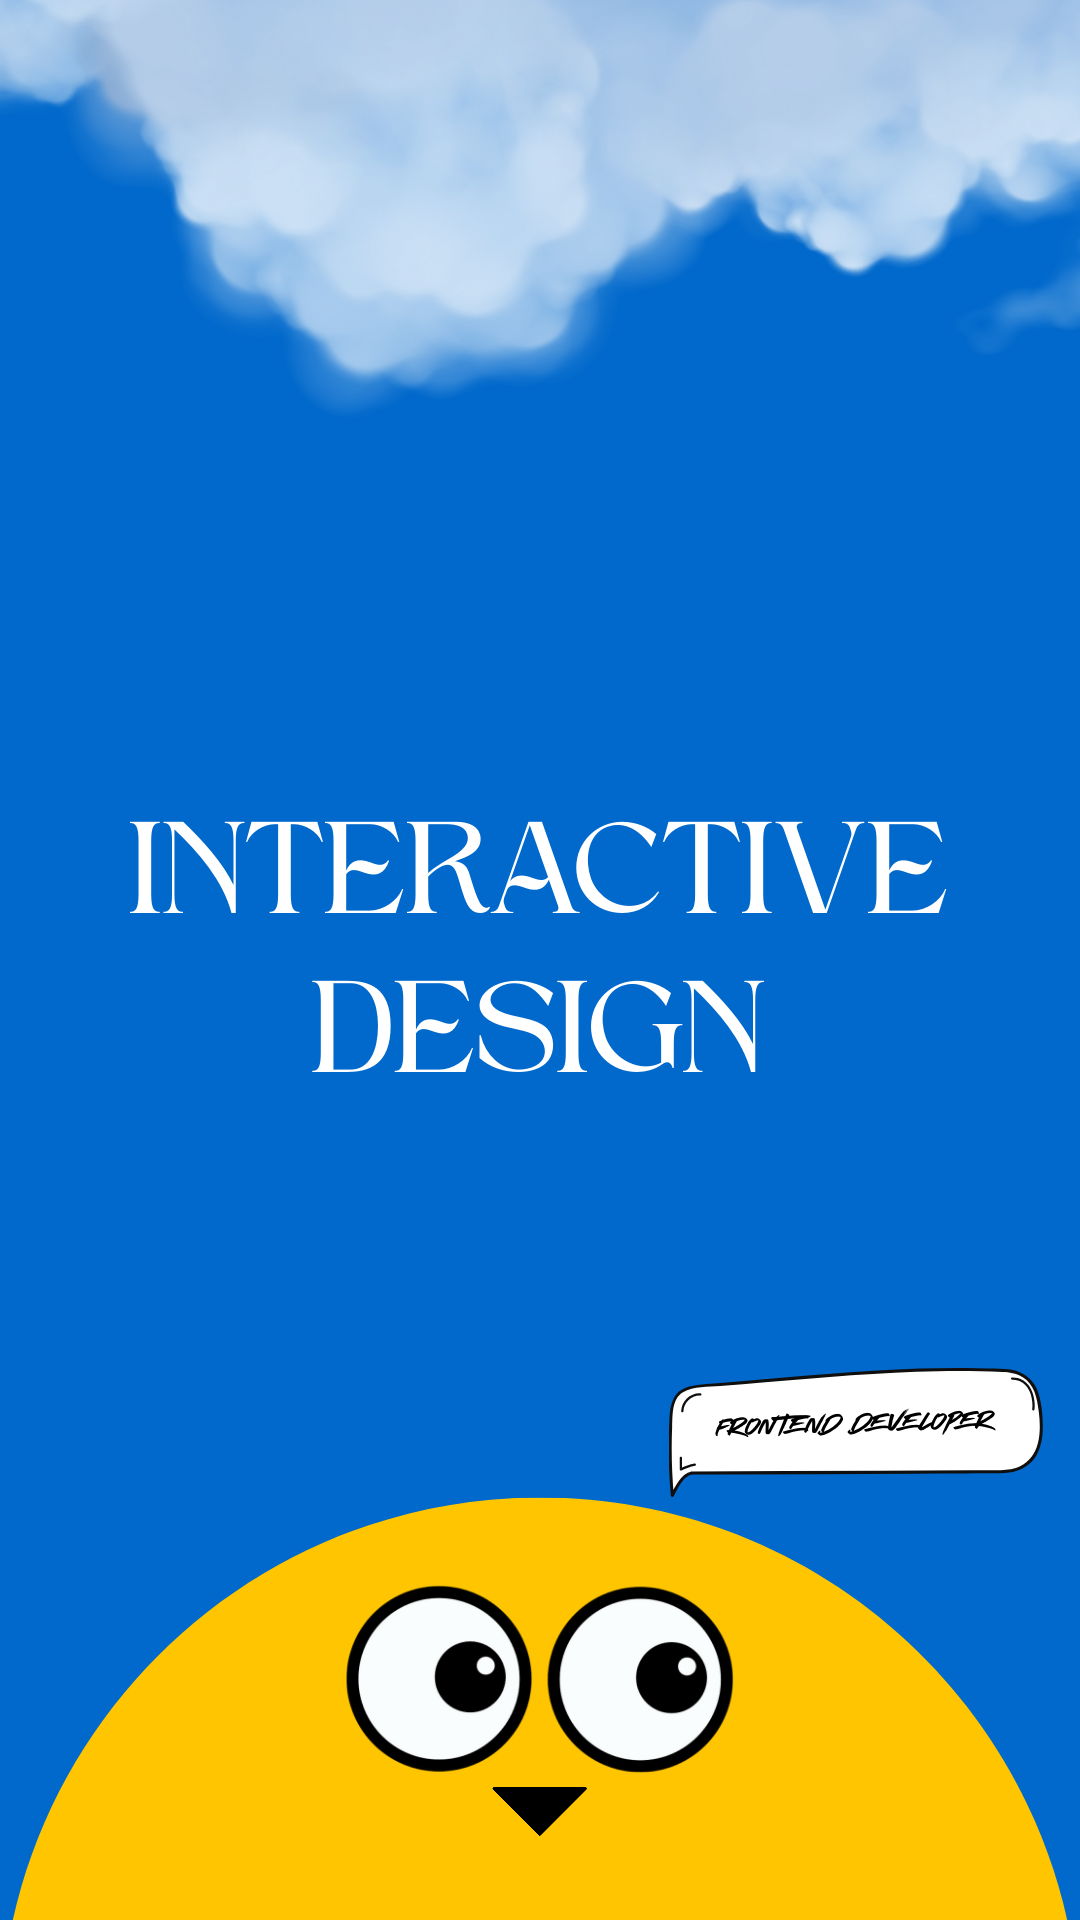
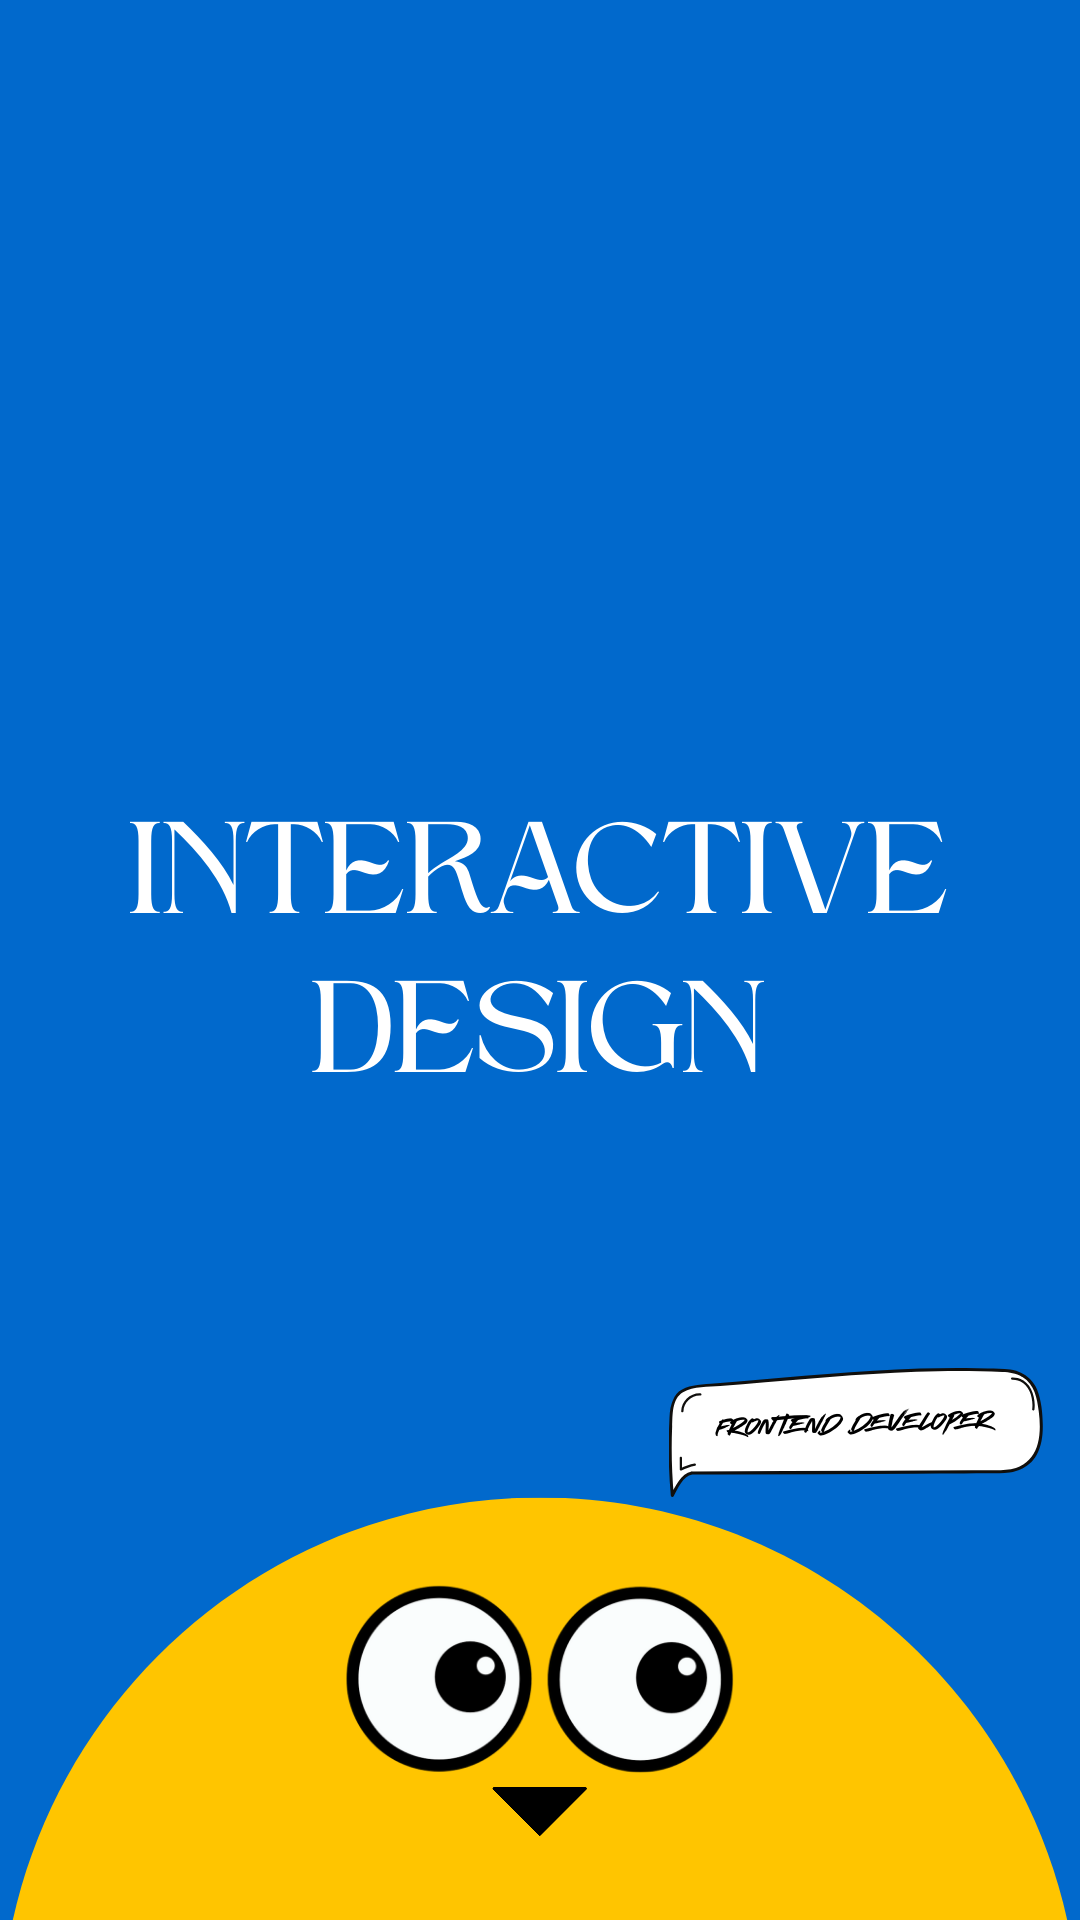
change some images

Changed region(s): [[0.0, 0.0, 1.0, 0.2188]]

diff --git a/index.html b/index.html
@@ -471,9 +471,18 @@
       </section>
 
       <section id="page6">
-        <img src="./images/creative-set-1.png" alt="interactive design" />
-        <img src="./images/creative-set-2.png" alt="animated interface" />
-        <img src="./images/creative-set-3.png" alt="creative developer" />
+        <img
+          src="https://cdn.jsdelivr.net/gh/amaan3110/portfolio@main/images/creative-set-1.png"
+          alt="interactive design"
+        />
+        <img
+          src="https://cdn.jsdelivr.net/gh/amaan3110/portfolio@main/images/creative-set-2.png"
+          alt="animated interface"
+        />
+        <img
+          src="https://cdn.jsdelivr.net/gh/amaan3110/portfolio@main/images/creative-set-3.png"
+          alt="creative developer"
+        />
       </section>
 
       <section id="page2">
